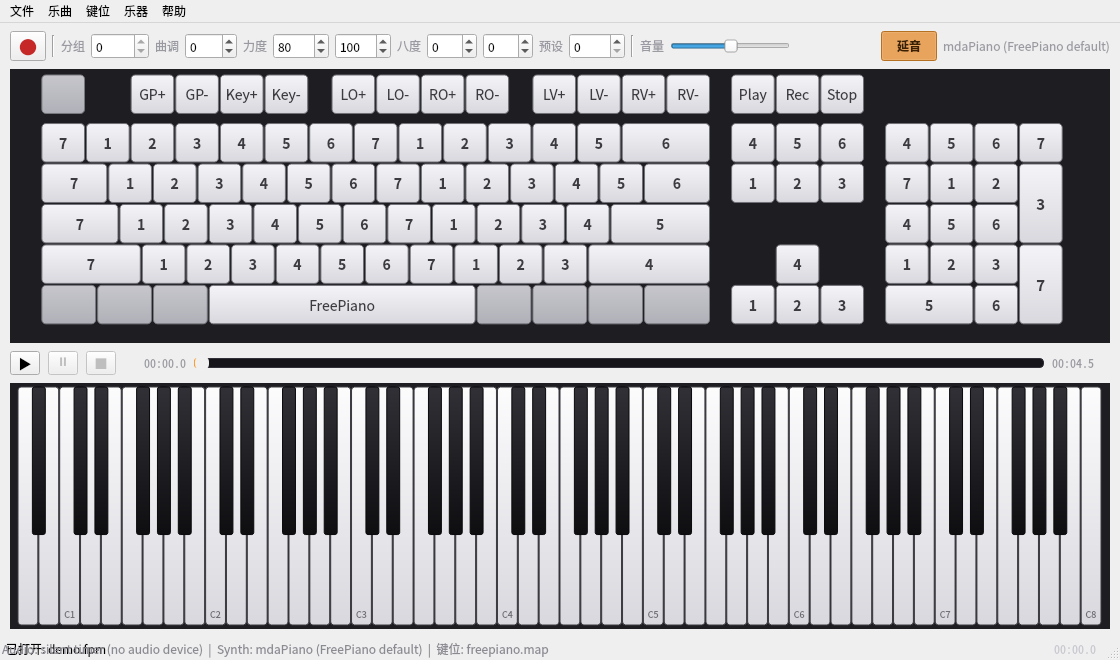
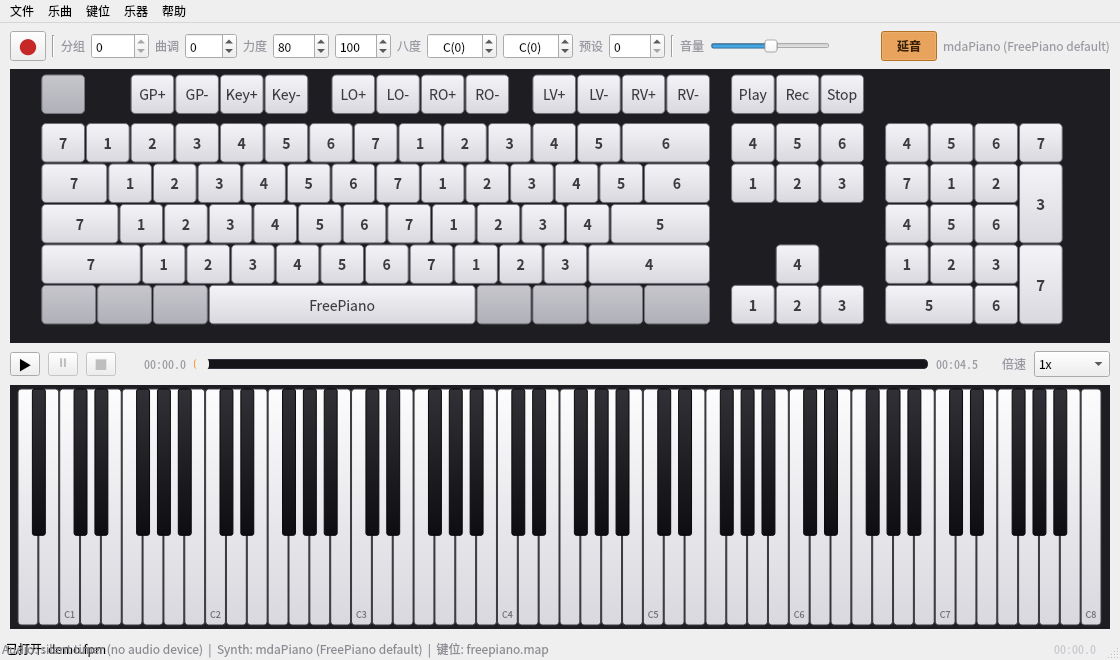
Add playback speed and C(-1)..C(7) octave display
- Speed combo (0.5x-2.0x) at the right of the progress slider
- Top octave spin boxes display C(-1)..C(7) and allow the full -1..7 range
- Widen the octave range for SM_OCTAVE playback and the key editor
- Refresh the progress screenshot
- Bump to 1.0.8

Changed region(s): [[0.0, 0.5152, 1.0, 0.6061], [0.375, 0.0606, 0.75, 0.0909]]

diff --git a/src/ui/mainwindow.cpp b/src/ui/mainwindow.cpp
@@ -147,10 +147,16 @@ void MainWindow::buildControls() {
   bar->addWidget(control_label(fp_tr("八度", "Octave"), central));
   oct0_spin_ = new QSpinBox(central);
   oct1_spin_ = new QSpinBox(central);
+  oct0_spin_->setObjectName("octave0Spin");
+  oct1_spin_->setObjectName("octave1Spin");
   for (QSpinBox* spin : {oct0_spin_, oct1_spin_}) {
-    spin->setRange(-1, 1);
-    spin->setFixedWidth(50);
+    spin->setRange(-1, 7);
+    spin->setPrefix("C(");
+    spin->setSuffix(")");
+    spin->setFixedWidth(70);
+    spin->setAlignment(Qt::AlignCenter);
     spin->setFocusPolicy(Qt::NoFocus);
+    spin->setToolTip(fp_tr("八度偏移：C(-1) 到 C(7)", "Octave shift: C(-1) to C(7)"));
     connect(spin, SIGNAL(valueChanged(int)), this, SLOT(onOctaveChanged()));
     bar->addWidget(spin);
   }
@@ -258,6 +264,24 @@ void MainWindow::buildControls() {
   progress_layout->addWidget(progress_elapsed_);
   progress_layout->addWidget(progress_slider_, 1);
   progress_layout->addWidget(progress_total_);
+
+  auto* speed_label = new QLabel(fp_tr("倍速", "Speed"), progress_row_);
+  speed_label->setStyleSheet("color:#9a9aa2;");
+  progress_layout->addWidget(speed_label);
+
+  speed_combo_ = new QComboBox(progress_row_);
+  speed_combo_->setObjectName("speedCombo");
+  speed_combo_->setFocusPolicy(Qt::NoFocus);
+  speed_combo_->setFixedWidth(76);
+  speed_combo_->setToolTip(fp_tr("播放倍速", "Playback speed"));
+  for (double speed : {0.5, 0.75, 1.0, 1.25, 1.5, 2.0}) {
+    QString text = (speed == (int)speed) ? QString::number(speed) : QString::number(speed, 'f', 2);
+    speed_combo_->addItem(text + "x", speed);
+  }
+  speed_combo_->setCurrentIndex(speed_combo_->findData(1.0));
+  connect(speed_combo_, QOverload<int>::of(&QComboBox::currentIndexChanged), this,
+          &MainWindow::onSpeedChanged);
+  progress_layout->addWidget(speed_combo_);
   layout->addWidget(progress_row_);
   progress_row_->setVisible(false);
 
@@ -627,6 +651,12 @@ void MainWindow::onSeekReleased() {
   seeking_ = false;
   if (progress_slider_) song_seek(progress_slider_->value());
   tick();
+}
+
+void MainWindow::onSpeedChanged(int index) {
+  if (!speed_combo_ || index < 0) return;
+  double speed = speed_combo_->itemData(index).toDouble();
+  if (speed > 0) song_set_play_speed(speed);
 }
 
 void MainWindow::onPause() {

diff --git a/src/ui/main.cpp b/src/ui/main.cpp
@@ -683,6 +683,9 @@ int main(int argc, char** argv) {
     auto* play_button = window.findChild<QPushButton*>("playButton");
     auto* pause_button = window.findChild<QPushButton*>("pauseButton");
     auto* stop_button = window.findChild<QPushButton*>("stopButton");
+    auto* speed_combo = window.findChild<QComboBox*>("speedCombo");
+    auto* octave0 = window.findChild<QSpinBox*>("octave0Spin");
+    auto* octave1 = window.findChild<QSpinBox*>("octave1Spin");
     QMetaObject::invokeMethod(&window, "tick", Qt::DirectConnection);
     bool progress_empty_hidden = progress_row && progress_slider && !progress_row->isVisible();
 
@@ -739,6 +742,31 @@ int main(int argc, char** argv) {
     if (!progress_recording_hidden) ++failures;
     std::printf("  [%s] progress row appears with a song\n", progress_visible ? "ok" : "FAIL");
     if (!progress_visible) ++failures;
+
+    bool speed_ok = false;
+    if (speed_combo) {
+      int idx = speed_combo->findData(2.0);
+      if (idx >= 0) {
+        speed_combo->setCurrentIndex(idx);
+        speed_ok = std::fabs(song_get_play_speed() - 2.0) < 0.001;
+        speed_combo->setCurrentIndex(speed_combo->findData(1.0));
+      }
+    }
+    std::printf("  [%s] speed combo changes playback speed\n", speed_ok ? "ok" : "FAIL");
+    if (!speed_ok) ++failures;
+
+    bool octave_ok = octave0 && octave1 && octave0->minimum() == -1 &&
+                     octave0->maximum() == 7 && octave0->text() == "C(0)" &&
+                     octave1->text() == "C(0)";
+    if (octave_ok) {
+      octave0->setValue(-1);
+      octave_ok = octave0->text() == "C(-1)";
+      octave0->setValue(7);
+      octave_ok = octave_ok && octave0->text() == "C(7)";
+      octave0->setValue(0);
+    }
+    std::printf("  [%s] octave spin boxes show C(-1)..C(7)\n", octave_ok ? "ok" : "FAIL");
+    if (!octave_ok) ++failures;
     std::printf("  [%s] progress bar follows playback\n", progress_follows ? "ok" : "FAIL");
     if (!progress_follows) ++failures;
     std::printf("  [%s] pause/resume keeps the progress position\n",

diff --git a/src/ui/mainwindow.h b/src/ui/mainwindow.h
@@ -4,6 +4,7 @@
 #include <QString>
 
 class QAction;
+class QComboBox;
 class QLabel;
 class QMenu;
 class QProgressBar;
@@ -39,6 +40,7 @@ class MainWindow : public QMainWindow {
   void onPlay();
   void onPause();
   void onSeekReleased();
+  void onSpeedChanged(int index);
   void onRecord();
   void onStop();
   void onOpenSong();
@@ -85,6 +87,7 @@ class MainWindow : public QMainWindow {
   QSlider* progress_slider_ = nullptr;
   QLabel* progress_elapsed_ = nullptr;
   QLabel* progress_total_ = nullptr;
+  QComboBox* speed_combo_ = nullptr;
   bool seeking_ = false;
 
   QSpinBox* group_spin_ = nullptr;

diff --git a/src/ui/keyeditdialog.cpp b/src/ui/keyeditdialog.cpp
@@ -52,7 +52,7 @@ const ActionDef kActions[] = {
     {SM_PRESSURE, KIND_CHANNEL, "通道力度", "Channel pressure", 0, 127, 0},
     {SM_TRANSPOSE, KIND_CHANNEL, "移调", "Transpose", -64, 64, 0},
     {SM_FOLLOW_KEY, KIND_CHANNEL, "跟随曲调", "Follow key", 0, 1, 1},
-    {SM_OCTAVE, KIND_CHANNEL, "八度", "Octave", -1, 1, 1},
+    {SM_OCTAVE, KIND_CHANNEL, "八度", "Octave", -1, 7, 1},
     {SM_VELOCITY, KIND_CHANNEL, "力度", "Velocity", 0, 127, 100},
     {SM_CHANNEL, KIND_CHANNEL, "输出通道", "Output channel", 0, 15, 0},
 

diff --git a/src/core/song.cpp b/src/core/song.cpp
@@ -379,7 +379,7 @@ void song_output_event(byte a, byte b, byte c, byte d) {
       }
       if ((op & 0x0f) == SM_VALUE_PRESS) delay_event_add(fixed_delay_timer, a, b, SM_VALUE_SET, (byte)value);
       value = translate_value(op, value, (int8_t)d);
-      value = wrap_value(value, -1, 1);
+      value = wrap_value(value, -1, 7);
       config_set_key_octshift((byte)ch, (char)value);
       break;
     }

diff --git a/README.md b/README.md
@@ -27,8 +27,8 @@
   * 可选 FluidSynth + SoundFont（`.sf2` / `.sf3`），使用其它 GM 音色库。
 * **音频输出**：PortAudio（ALSA/JACK）+ PulseAudio / PipeWire 后端，自动回退。
 * **MIDI**：ALSA sequencer MIDI 输入（外部 MIDI 键盘，支持通道映射）与 MIDI 输出。
-* **可拖动播放进度条**：位于屏幕键盘和钢琴之间；有乐曲时显示播放 / 暂停 / 停止和当前进度，
-  拖动进度条可跳转，没有乐曲时整行自动隐藏。
+* **可拖动播放进度条**：位于屏幕键盘和钢琴之间；有乐曲时显示播放 / 暂停 / 停止、当前进度
+  和 0.5x–2.0x 倍速，拖动进度条可跳转，没有乐曲时整行自动隐藏。
 * **录制 / 播放 / 导出 WAV**：录制键位/延音事件，保存为 `.fpm`；可离线渲染导出 16-bit WAV。
 * **多分组、移调、跟随曲调、延音、力度、八度**：与原版脚本语义一致。
 * **键位编辑器**：以纯文本方式编辑 `.map`，实时应用、另存。
@@ -93,8 +93,9 @@ sudo cmake --install build          # 默认前缀 /usr/local
   延音踏板键提供两个子选项：**按住延音**（按下开启、松开关闭）和**切换延音**（按一次开、再按关）。
 * 工具栏「延音」按钮切换延音踏板（作用于 `In_0` 对应的输出通道，即默认键位），按钮状态会跟随
   键位脚本/乐曲回放更新；开启时会录入乐曲。
-* 有乐曲时，键盘和钢琴之间会显示播放 / 暂停 / 停止与进度条；拖动进度条可跳转，没有乐曲时隐藏。
+* 有乐曲时，键盘和钢琴之间会显示播放 / 暂停 / 停止、进度条和倍速；拖动进度条可跳转，没有乐曲时隐藏。
 * `●` 录制、`▶` 播放、`❚❚` 暂停、`■` 停止；`Ctrl+O / Ctrl+S` 打开/保存 `.fpm`，`Ctrl+E` 导出 WAV。
+* 八度控制显示为 `C(-1)` … `C(7)`，支持 -1 到 7 的八度偏移。
 * 兼容 FreePiano 1.x 和 2.x 录制的 `.fpm`；2.x 中本移植不认识的新事件会被忽略。
 * 「键位」菜单可切换/编辑 `.map`；「乐器」菜单切换 mdaPiano / GM 合成器 / SoundFont，
   并可选择 mdaPiano 的 8 个预设。
@@ -184,7 +185,7 @@ PulseAudio，请选择 “PulseAudio / PipeWire (default)”。默认的 mdaPian
 ## AUR
 
 `packaging/aur/` 中已经准备好 AUR 包（`PKGBUILD` + `.SRCINFO`，包名 `freepiano-linux`，
-版本 1.0.7），并已用 `makepkg` 本地构建验证。提交到 AUR 后可以：
+版本 1.0.8），并已用 `makepkg` 本地构建验证。提交到 AUR 后可以：
 
 ```bash
 yay -S freepiano-linux
@@ -201,7 +202,7 @@ GitHub Releases 也提供构建好的 pacman 包（已包含 `.desktop`、图标
 
 ```bash
 # 从 https://github.com/QPRS-6/freepiano-linux/releases 下载后
-sudo pacman -U freepiano-linux-1.0.7-1-x86_64.pkg.tar.zst
+sudo pacman -U freepiano-linux-1.0.8-1-x86_64.pkg.tar.zst
 ```
 
 该包未做 GPG 签名，`pacman -U` 可能会提示确认；也可以直接用上面的 AUR 方式本地编译。
